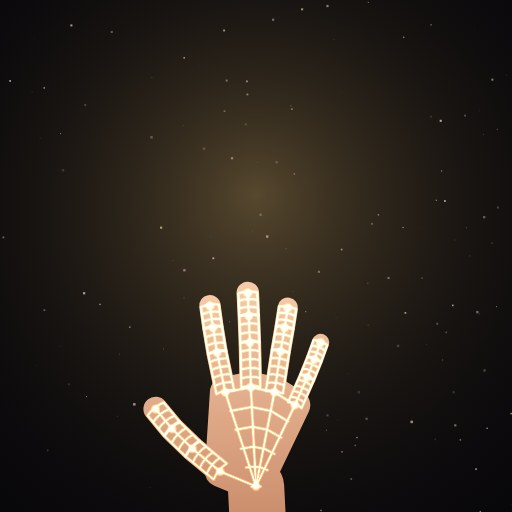
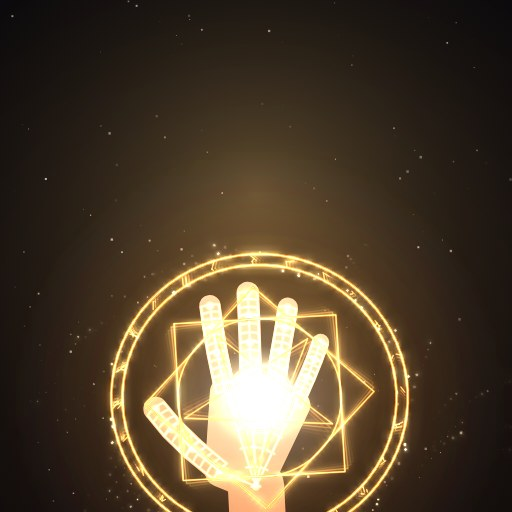
Magic Cam : guide des gestes du Mode libre, vignette du Mode libre
Claude-Session: https://claude.ai/code/session_015yBfWB9uQ2hWWBeA4S8RoH

diff --git a/js/main.js b/js/main.js
@@ -7,6 +7,7 @@ import { gallery, videoThumbnail } from './gallery.js';
 import { quality } from './fx/util.js';
 import { MESH_POINTS } from './handmesh.js';
 import { Secrets } from './mech/secrets.js';
+import { FREE_MOVES } from './fx/free.js';
 import { Progress } from './progress.js';
 import { makeDual } from './dual.js';
 import { SPELLS } from './fx/runes.js';
@@ -1117,6 +1118,10 @@ $('wallet-card').addEventListener('click', () => {
 function renderShop() {
   $('shop-crystals').textContent = progress.s.crystals;
   $('shop-challenges').innerHTML = challengeRows(progress.challenges);
+  $('free-moves').innerHTML = FREE_MOVES.map(
+    ([id, how, what]) =>
+      `<div class="ach on"><img class="move-img" src="${art(id)}" alt=""><span><strong>${what}</strong><small>${how}</small></span></div>`,
+  ).join('');
   const locked = EFFECTS.filter((d) => !progress.owns(d.id));
   $('shop-list').innerHTML = locked.length
     ? locked

diff --git a/js/fx/free.js b/js/fx/free.js
@@ -114,7 +114,7 @@ export function freeModeEffect() {
       // A new gesture must hold a moment; waving and the ball switch at once.
       const quick = want === 'lightning' || want === 'blackhole' || want === 'thunder' || want === 'sakura';
       if (want && want !== current && (since > 0.25 || quick)) {
-        e.audio.stopLoops();
+        e.audio.stopLoops?.();
         current = want;
         e.emit?.('freePower', current);
         get(current).start?.(e);
@@ -124,7 +124,7 @@ export function freeModeEffect() {
       if (!want) idle += dt;
       else idle = 0;
       if (current && idle > 1.2) {
-        e.audio.stopLoops();
+        e.audio.stopLoops?.();
         current = null;
       }
       // The ball: one black hole between both hands, not one per hand.

diff --git a/index.html b/index.html
@@ -55,6 +55,8 @@
         <h2 class="sub-title">Défis du jour</h2>
         <p class="muted">Chaque défi réussi rapporte des cristaux. Nouveaux défis chaque jour, et un bonus quand tu reviens.</p>
         <div class="challenges-card" id="shop-challenges"></div>
+        <h2 class="sub-title">Gestes du Mode libre</h2>
+        <div class="ach-list" id="free-moves"></div>
         <h2 class="sub-title">Pouvoirs à débloquer</h2>
         <div class="shop-list" id="shop-list"></div>
       </div>

diff --git a/sw.js b/sw.js
@@ -1,7 +1,7 @@
 // Magic Cam service worker: works offline and keeps the installed app up to
 // date. Every launch fetches the newest files first (cache only as fallback),
 // and a new version of this file takes over immediately.
-const VERSION = 'magic-cam-v40';
+const VERSION = 'magic-cam-v41';
 const LIB = 'magic-cam-lib';
 const POWERS = [
   'free',

diff --git a/css/style.css b/css/style.css
@@ -1877,3 +1877,9 @@ body.in-studio {
   border-radius: 18px;
   object-fit: cover;
 }
+.move-img {
+  width: 44px;
+  height: 44px;
+  border-radius: 10px;
+  object-fit: cover;
+}
